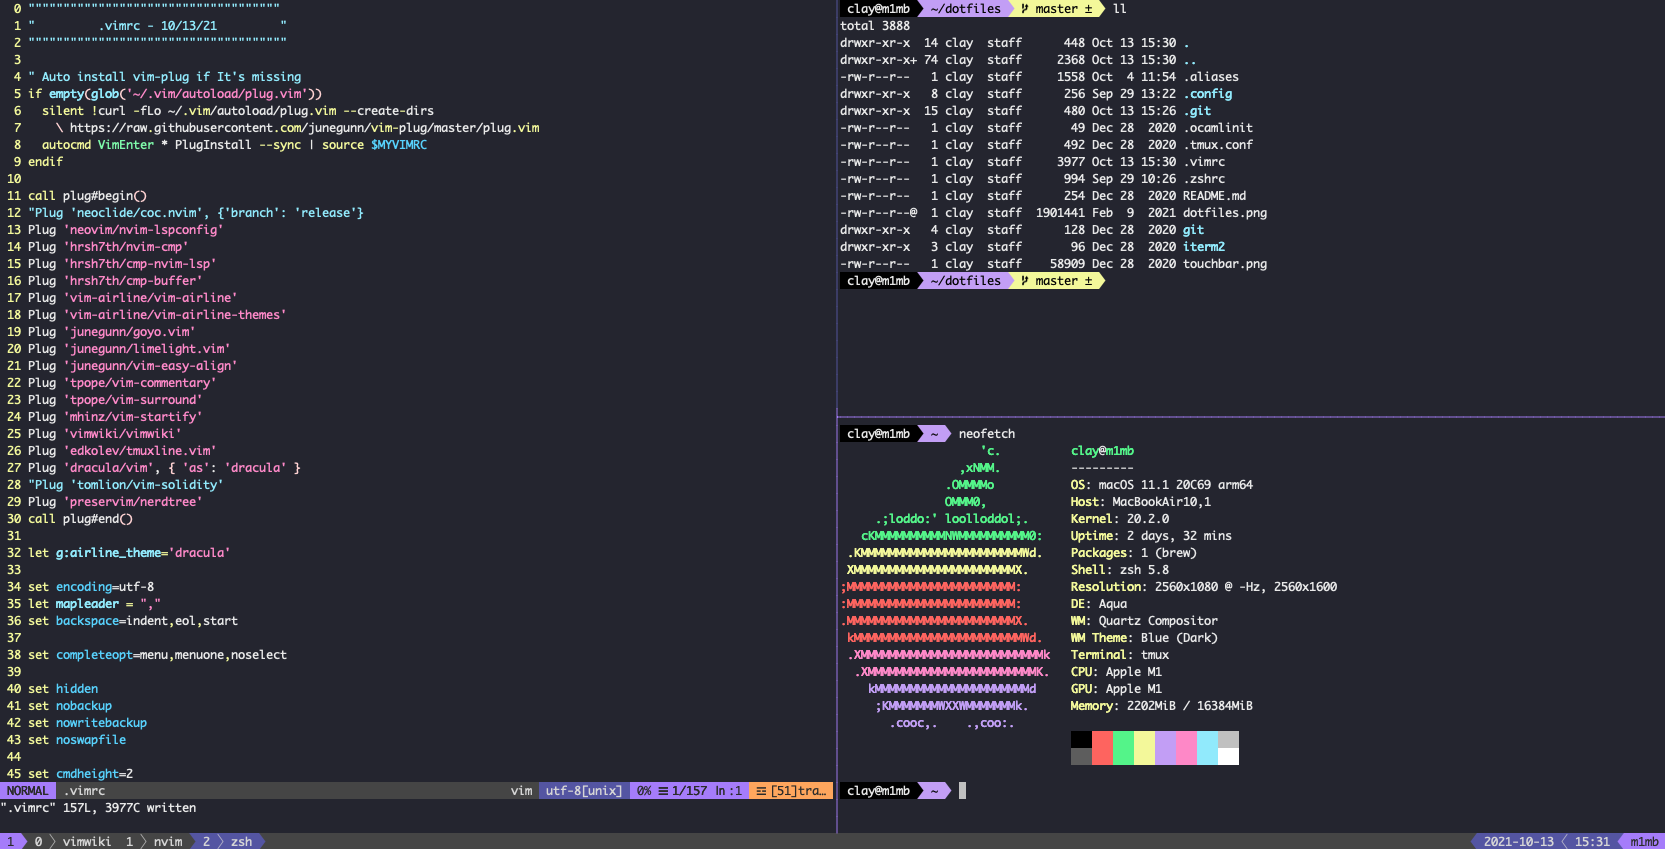
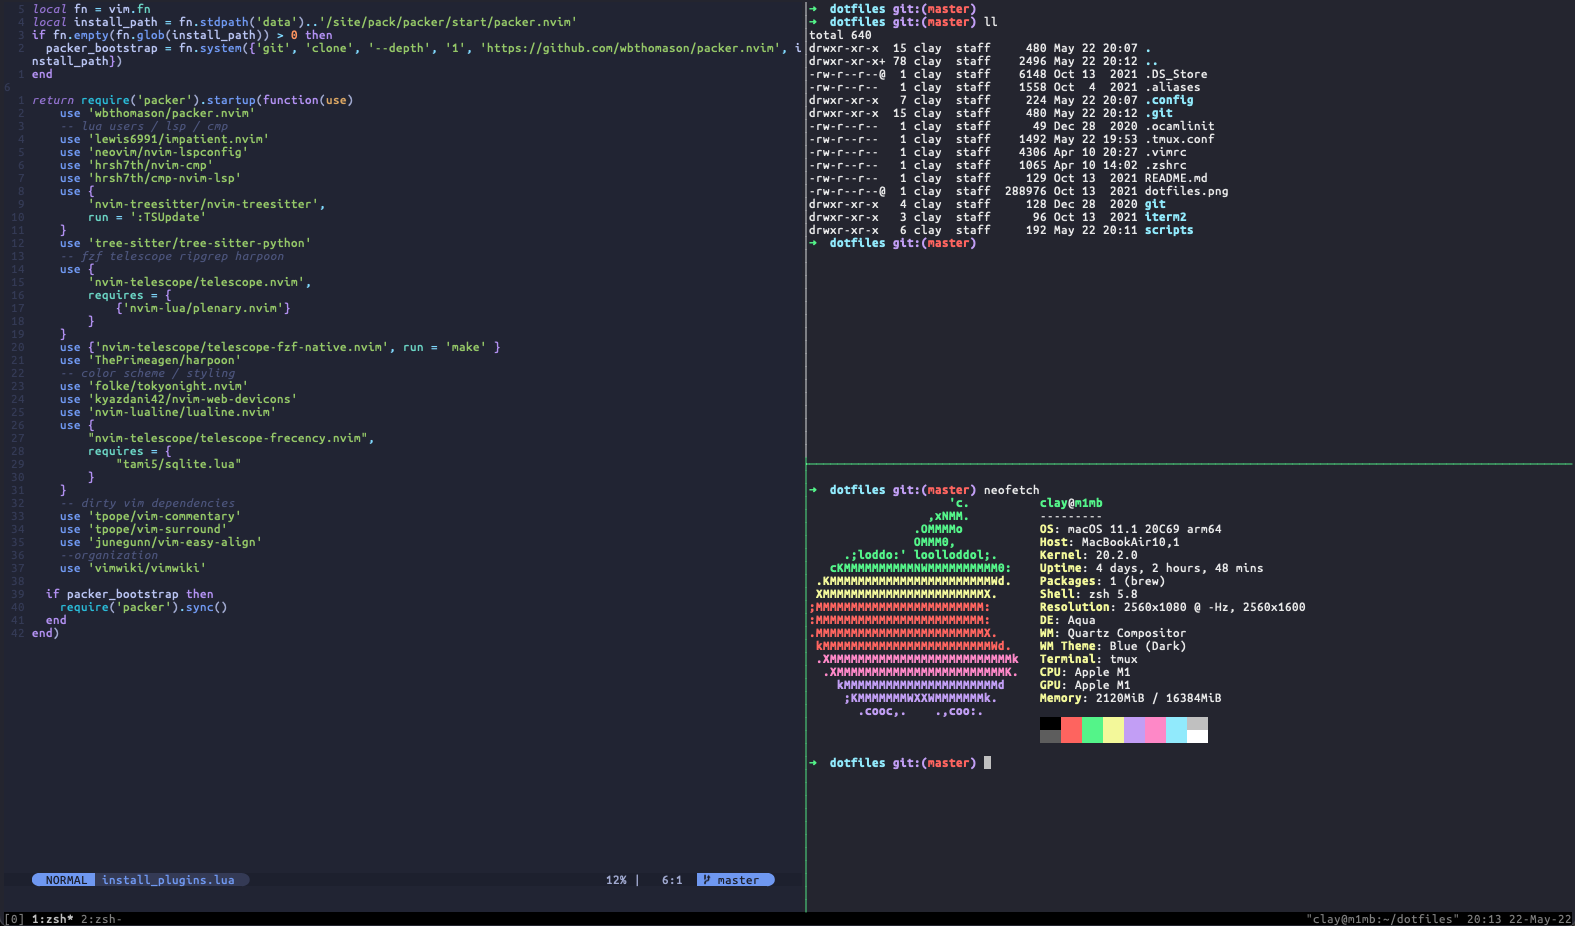
update screenshot

diff --git a/README.md b/README.md
@@ -1,5 +1,5 @@
-# Clay's dotfiles
+# dotfiles
 
 ![dotfiles](dotfiles.png)
 
-Contains my configs for Vim, Tmux, ZSH, Git, and a few other miscellaneous things.
+Contains my configs for nvim, tmux, zsh, git, and a few other miscellaneous things.
